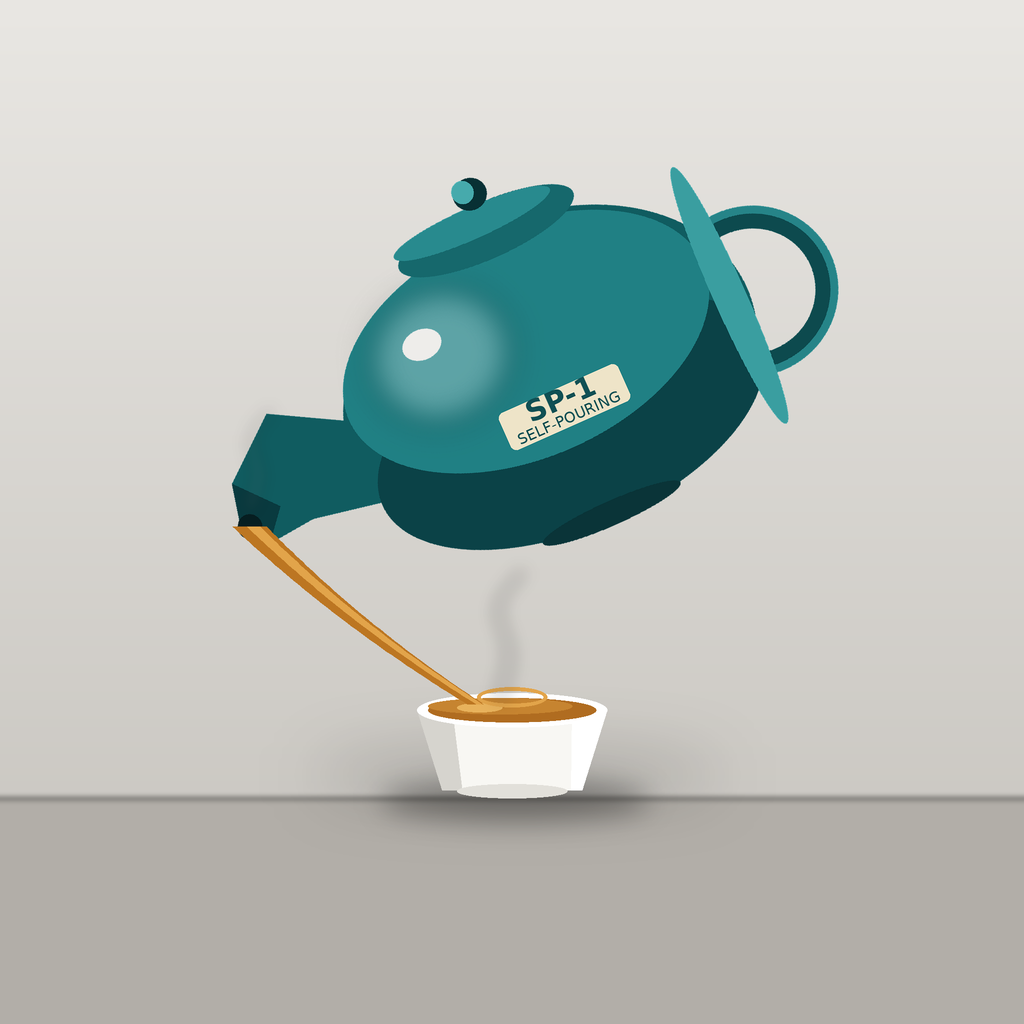
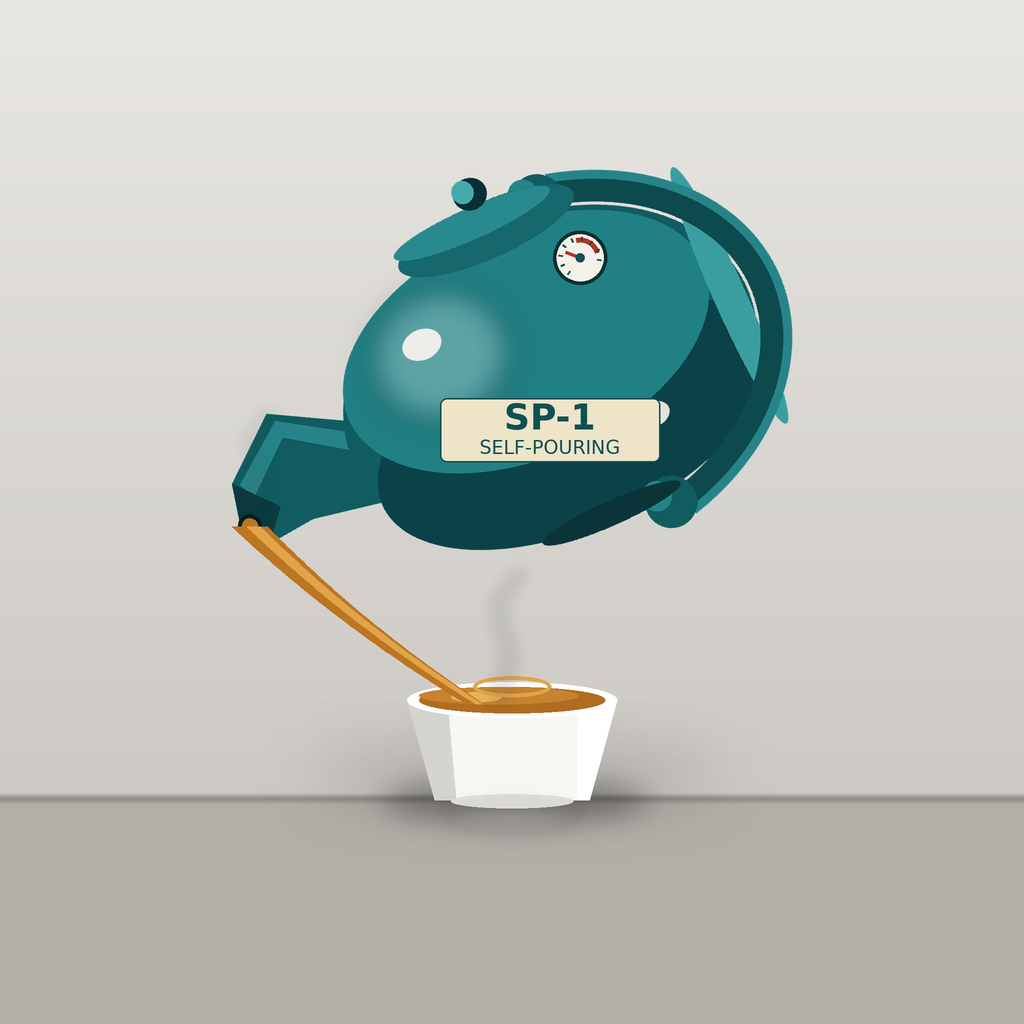
Revise: legible level label, welded handle, gauge dial, spout highlight

Changed region(s): [[0.4062, 0.1562, 0.8438, 0.5312], [0.4062, 0.6562, 0.625, 0.8125], [0.2188, 0.4062, 0.3438, 0.5312]]

diff --git a/main.ts b/main.ts
@@ -1,12 +1,21 @@
-import { copyFileSync, mkdirSync } from "node:fs";
+import { copyFileSync, existsSync, mkdirSync } from "node:fs";
 import { dirname, join } from "node:path";
 import { fileURLToPath } from "node:url";
 
-// The entry image is drawn by compose.py and shipped as entry.png.
-// This program only copies it into the output directory, so both
-// grading runs produce byte-identical output.
-const here = dirname(fileURLToPath(import.meta.url));
-const outDir = process.env.MAKEFUN_OUTPUT_DIR ?? join(here, "out");
+// Entry point: the catalogue photo is rendered by compose.py and shipped
+// as entry.png next to this file. This program only places that image into
+// the grader's output directory, so every grading run emits byte-identical
+// output. It refuses to run if the rendered image is missing, rather than
+// silently producing an empty entry.
+const repoRoot = dirname(fileURLToPath(import.meta.url));
+const sourceImage = join(repoRoot, "entry.png");
+const outputDir = process.env.MAKEFUN_OUTPUT_DIR ?? join(repoRoot, "out");
 
-mkdirSync(outDir, { recursive: true });
-copyFileSync(join(here, "entry.png"), join(outDir, "entry.png"));
+if (!existsSync(sourceImage)) {
+  throw new Error(
+    `entry.png not found in ${repoRoot} -- run "python3 compose.py" first`,
+  );
+}
+
+mkdirSync(outputDir, { recursive: true });
+copyFileSync(sourceImage, join(outputDir, "entry.png"));

diff --git a/compose.py b/compose.py
@@ -7,10 +7,19 @@ saucer, no clutter. One hero product, one accessory (the cup), seamless
 studio background, soft key light from upper left. The joke reads at a
 glance: the teapot pours itself.
 
+Revision notes (this pass): the product label is now drawn level and much
+larger AFTER the pot is rotated, so "SP-1 / SELF-POURING" is legible at a
+glance; the handle is a thick arc welded to the body with mount blobs
+instead of a thin floating ring; the spout carries a top-edge highlight and
+an amber-rimmed mouth; a small AUTO-POUR gauge dial on the body sharpens
+the engineered-absurdity cue; the cup is slightly larger with a soft floor
+reflection.
+
 Rendered at 2x and downscaled for smooth anti-aliasing. Deterministic:
 same bytes on every run. Output: entry.png, 1024x1024, < 1 MiB.
 """
 import math
+import os
 import numpy as np
 from PIL import Image, ImageDraw, ImageFilter, ImageFont
 
@@ -38,17 +47,6 @@ def bezier(p0, p1, p2, n=48):
         y = (1 - t) ** 2 * p0[1] + 2 * (1 - t) * t * p1[1] + t ** 2 * p2[1]
         pts.append((x, y))
     return pts
-
-
-def ribbon(centerline, widths, fill):
-    """A tapered band around a centreline: returns a polygon point list."""
-    left, right = [], []
-    for (x, y), w in zip(centerline, widths):
-        # normal from local direction
-        i = centerline.index((x, y)) if False else None
-        left.append((x - w, y))
-        right.append((x + w, y))
-    return left + right[::-1]
 
 
 def tube_polygon(centerline, w0, w1):
@@ -82,7 +80,6 @@ def steam_wisp(layer, x0, y0, height, amplitude, alpha=110, width=26):
         x = x0 + math.sin(t * math.pi * 2.2) * amplitude * t + t * 30
         y = y0 - t * height
         pts.append((x, y))
-    w = width * (1 - 0.45 * 0.5)
     for i in range(0, len(pts) - 1, 2):
         (x1, y1), (x2, y2) = pts[i], pts[i + 1]
         ww = width * (1 - 0.4 * i / len(pts))
@@ -93,7 +90,8 @@ def steam_wisp(layer, x0, y0, height, amplitude, alpha=110, width=26):
 
 def draw_teapot_layer():
     """Teapot drawn upright on its own layer, then rotated as a whole so the
-    tilt, spout, handle and lid all stay consistent."""
+    tilt, spout, handle and lid all stay consistent. No label here: the
+    label is drawn level on the finished image, after rotation."""
     LW, LH = 1500, 950
     layer = Image.new("RGBA", (LW, LH), (0, 0, 0, 0))
     d = ImageDraw.Draw(layer)
@@ -108,19 +106,21 @@ def draw_teapot_layer():
              (cx - bw - 220, cy + 80), (cx - bw - 120, cy + 70),
              (cx - bw + 40, cy + 100)]
     d.polygon(spout, fill=(16, 92, 96, 255))
+    # spout top-edge highlight: a lighter strip along the upper edge so the
+    # spout reads as a solid cast piece, not a flat slab
+    d.polygon([(cx - bw + 40, cy - 44), (cx - bw - 110, cy - 140),
+               (cx - bw - 226, cy - 52), (cx - bw - 210, cy - 18),
+               (cx - bw - 110, cy - 104), (cx - bw + 30, cy - 8)],
+              fill=(38, 132, 136, 255))
+    # shaded underside of the spout
     d.polygon([(cx - bw - 240, cy - 60), (cx - bw - 260, cy + 30),
                (cx - bw - 220, cy + 80), (cx - bw - 170, cy + 20)],
               fill=(9, 58, 63, 255))
-    # spout tip opening (dark) -- the mouth the tea pours from
+    # spout tip opening (dark) with an amber rim of tea at the mouth
     d.ellipse([cx - bw - 266, cy + 8, cx - bw - 218, cy + 58],
               fill=(6, 30, 33, 255))
-
-    # --- handle FIRST (its inner half hides behind the body): thick C on the
-    # right, drawn as a ring whose left side the body will cover
-    d.ellipse([cx + bw - 170, cy - 160, cx + bw + 180, cy + 180],
-              outline=(13, 74, 78, 255), width=46)
-    d.ellipse([cx + bw - 170, cy - 160, cx + bw + 180, cy + 180],
-              outline=(38, 132, 136, 255), width=16)
+    d.ellipse([cx - bw - 258, cy + 16, cx - bw - 226, cy + 50],
+              fill=(188, 118, 34, 255))
 
     # --- body: glossy deep-teal ceramic, radial-ish shading via stacked ellipses
     # base body
@@ -142,6 +142,43 @@ def draw_teapot_layer():
     layer.alpha_composite(hi)
     # small hard glint
     d.ellipse([cx - 250, cy - 190, cx - 170, cy - 130], fill=(255, 255, 255, 130))
+    # second, smaller glint low on the body for a glazed-ceramic read
+    d.ellipse([cx + 120, cy + 130, cx + 190, cy + 180], fill=(255, 255, 255, 70))
+
+    # --- handle: a thick arc hugging the body's right side, welded on with
+    # two mount blobs where it meets the body -- reads as one cast piece
+    d.arc([cx - 500, cy - 390, cx + 500, cy + 390], start=-72, end=72,
+          fill=(13, 74, 78, 255), width=64)
+    d.arc([cx - 500, cy - 390, cx + 500, cy + 390], start=-72, end=72,
+          fill=(38, 132, 136, 255), width=18)
+    # mount blobs at the arc ends (top and bottom joints)
+    for mx, my in [(cx + 118, cy - 330), (cx + 118, cy + 330)]:
+        d.ellipse([mx - 52, my - 52, mx + 52, my + 52], fill=(16, 92, 96, 255))
+        d.ellipse([mx - 52, my - 52, mx + 8, my + 8], fill=(38, 132, 136, 255))
+
+    # --- AUTO-POUR gauge dial on the upper body: white face, red pour zone,
+    # needle swung into it -- the engineered-absurdity cue
+    gx, gy, gr = cx + 150, cy - 190, 54
+    d.ellipse([gx - gr, gy - gr, gx + gr, gy + gr], fill=(8, 48, 52, 255))
+    d.ellipse([gx - gr + 7, gy - gr + 7, gx + gr - 7, gy + gr - 7],
+              fill=(244, 241, 232, 255))
+    # red pour zone (upper-right quadrant of the dial face)
+    d.arc([gx - gr + 14, gy - gr + 14, gx + gr - 14, gy + gr - 14],
+          start=-78, end=8, fill=(178, 52, 36, 255), width=10)
+    # tick marks
+    for ang in range(-120, 121, 30):
+        a = math.radians(ang - 90)
+        x1 = gx + (gr - 20) * math.cos(a)
+        y1 = gy + (gr - 20) * math.sin(a)
+        x2 = gx + (gr - 12) * math.cos(a)
+        y2 = gy + (gr - 12) * math.sin(a)
+        d.line([(x1, y1), (x2, y2)], fill=(16, 80, 84, 255), width=4)
+    # needle pointing into the red zone (up-right)
+    na = math.radians(-45 - 90)
+    d.line([(gx, gy), (gx + (gr - 24) * math.cos(na),
+                       gy + (gr - 24) * math.sin(na))],
+           fill=(178, 52, 36, 255), width=7)
+    d.ellipse([gx - 9, gy - 9, gx + 9, gy + 9], fill=(16, 80, 84, 255))
 
     # --- foot ring
     d.ellipse([cx - 150, cy + bh - 42, cx + 150, cy + bh + 6], fill=(10, 52, 56, 255))
@@ -152,17 +189,21 @@ def draw_teapot_layer():
     d.ellipse([cx - 34, cy - bh - 108, cx + 34, cy - bh - 44], fill=(8, 48, 52, 255))
     d.ellipse([cx - 34, cy - bh - 108, cx + 10, cy - bh - 62], fill=(70, 170, 172, 255))
 
-    # --- product label: small cream band with model mark (text belongs to
-    # the product, never an explanation of the joke)
-    d.rounded_rectangle([cx - 130, cy + 30, cx + 130, cy + 110],
-                        radius=12, fill=(238, 228, 200, 255))
-    f_big = ImageFont.truetype(DEJAVU_B, 58)
-    f_small = ImageFont.truetype(DEJAVU, 30)
-    d.text((cx, cy + 52), "SP-1", font=f_big, fill=(16, 80, 84, 255), anchor="mm")
-    d.text((cx, cy + 94), "SELF-POURING", font=f_small,
-           fill=(16, 80, 84, 255), anchor="mm")
-
     return layer
+
+
+def draw_label(d, cx, cy):
+    """Product label, drawn LEVEL on the finished image after the pot is
+    rotated, so it reads at a glance: cream band, model mark, function line.
+    Text belongs to the product, never an explanation of the joke."""
+    d.rounded_rectangle([cx - 220, cy - 64, cx + 220, cy + 64],
+                        radius=14, fill=(238, 228, 200, 255),
+                        outline=(16, 80, 84, 255), width=3)
+    f_big = ImageFont.truetype(DEJAVU_B, 72)
+    f_small = ImageFont.truetype(DEJAVU, 38)
+    d.text((cx, cy - 26), "SP-1", font=f_big, fill=(16, 80, 84, 255), anchor="mm")
+    d.text((cx, cy + 34), "SELF-POURING", font=f_small,
+           fill=(16, 80, 84, 255), anchor="mm")
 
 
 def main():
@@ -181,31 +222,34 @@ def main():
     soft_ellipse(img, [620, 1500, 1450, 1600], (0, 0, 0, 46), 60)
 
     # --- teacup (the one accessory): white porcelain, centred under the pot
-    cup_cx, cup_top, cup_bot = 1024, 1420, 1580
+    cup_cx, cup_top, cup_bot = 1024, 1400, 1600
     # cup body: tapered, slightly flared rim
-    d.polygon([(cup_cx - 190, cup_top), (cup_cx + 190, cup_top),
-               (cup_cx + 140, cup_bot), (cup_cx - 140, cup_bot)],
+    d.polygon([(cup_cx - 210, cup_top), (cup_cx + 210, cup_top),
+               (cup_cx + 155, cup_bot), (cup_cx - 155, cup_bot)],
               fill=(248, 247, 243, 255))
     # left shade + right warm light on the cup wall
-    d.polygon([(cup_cx - 190, cup_top), (cup_cx - 120, cup_top),
-               (cup_cx - 100, cup_bot), (cup_cx - 140, cup_bot)],
+    d.polygon([(cup_cx - 210, cup_top), (cup_cx - 130, cup_top),
+               (cup_cx - 112, cup_bot), (cup_cx - 155, cup_bot)],
               fill=(214, 212, 206, 255))
-    d.polygon([(cup_cx + 120, cup_top), (cup_cx + 190, cup_top),
-               (cup_cx + 140, cup_bot), (cup_cx + 118, cup_bot)],
+    d.polygon([(cup_cx + 132, cup_top), (cup_cx + 210, cup_top),
+               (cup_cx + 155, cup_bot), (cup_cx + 130, cup_bot)],
               fill=(255, 255, 255, 255))
     # rim + tea surface
-    d.ellipse([cup_cx - 190, cup_top - 34, cup_cx + 190, cup_top + 34],
+    d.ellipse([cup_cx - 210, cup_top - 36, cup_cx + 210, cup_top + 36],
               fill=(255, 255, 255, 255))
-    d.ellipse([cup_cx - 168, cup_top - 24, cup_cx + 168, cup_top + 24],
+    d.ellipse([cup_cx - 186, cup_top - 26, cup_cx + 186, cup_top + 26],
               fill=(176, 108, 32, 255))
-    d.ellipse([cup_cx - 168, cup_top - 24, cup_cx + 120, cup_top + 8],
+    d.ellipse([cup_cx - 186, cup_top - 26, cup_cx + 132, cup_top + 8],
               fill=(198, 132, 48, 255))
     # tea glint
-    d.ellipse([cup_cx - 110, cup_top - 14, cup_cx - 20, cup_top + 4],
+    d.ellipse([cup_cx - 122, cup_top - 16, cup_cx - 22, cup_top + 4],
               fill=(232, 178, 92, 255))
     # cup foot
-    d.ellipse([cup_cx - 110, cup_bot - 12, cup_cx + 110, cup_bot + 16],
+    d.ellipse([cup_cx - 122, cup_bot - 12, cup_cx + 122, cup_bot + 16],
               fill=(226, 224, 218, 255))
+    # faint floor reflection of the cup
+    soft_ellipse(img, [cup_cx - 130, cup_bot + 6, cup_cx + 130, cup_bot + 60],
+                 (255, 255, 255, 40), 18)
 
     # --- teapot, tilted, hovering above the cup
     pot = draw_teapot_layer()
@@ -213,18 +257,21 @@ def main():
     # spout tip after rotation lands near working (499, 1053)
     img.alpha_composite(pot, (300, 290))
 
+    # --- level product label on the pot body (screen coords, after rotation)
+    draw_label(d, 1100, 860)
+
     # --- tea stream: from the spout tip arcing down into the cup
     p0 = (499, 1053)      # spout tip
     p1 = (700, 1250)      # control: arc out then down
     p2 = (950, 1408)      # into the tea surface
     centre = bezier(p0, p1, p2, 60)
-    stream = tube_polygon(centre, 34, 16)
+    stream = tube_polygon(centre, 36, 18)
     d.polygon(stream, fill=(188, 118, 34, 255))
     # bright core of the stream
-    core = tube_polygon([(x + 8, y) for (x, y) in centre], 13, 6)
+    core = tube_polygon([(x + 8, y) for (x, y) in centre], 14, 7)
     d.polygon(core, fill=(226, 164, 74, 255))
     # splash ring where the stream meets the tea
-    d.ellipse([cup_cx - 70, cup_top - 46, cup_cx + 70, cup_top - 6],
+    d.ellipse([cup_cx - 78, cup_top - 48, cup_cx + 78, cup_top - 6],
               outline=(226, 164, 74, 255), width=8)
 
     # --- steam: two wisps, one from the cup, one from the spout tip
@@ -234,7 +281,7 @@ def main():
     # --- downscale to the 1024x1024 entry
     out = img.convert("RGB").resize((1024, 1024), Image.LANCZOS)
     out.save("entry.png", "PNG", optimize=True)
-    print("entry.png", out.size)
+    print("entry.png", out.size, os.path.getsize("entry.png"), "bytes")
 
 
 if __name__ == "__main__":

diff --git a/README.md b/README.md
@@ -4,12 +4,18 @@
 [![rank](https://make.fun/badge/the-catalogue-photo-of-an-2-20261121-0341/musengbob/the-catalogue-photo-of-an-2-20261121-0341/rank.svg)](https://make.fun/bounty/the-catalogue-photo-of-an-2-20261121-0341/leaderboard?utm_source=github&utm_medium=readme&utm_campaign=the-catalogue-photo-of-an-2-20261121-0341)
 [![reward](https://make.fun/badge/the-catalogue-photo-of-an-2-20261121-0341/musengbob/the-catalogue-photo-of-an-2-20261121-0341/reward.svg)](https://make.fun/bounty/the-catalogue-photo-of-an-2-20261121-0341?utm_source=github&utm_medium=readme&utm_campaign=the-catalogue-photo-of-an-2-20261121-0341)
 
-The Self-Pouring Teapot (SP-1): a catalogue photograph of an impossible gadget. A glossy teal ceramic teapot hovers tilted in mid-air, pouring a smooth amber stream of tea into a white porcelain cup below it — no hand, no help. One hero product, one accessory (the cup), seamless studio background, soft key light. The joke reads at a glance: the teapot pours itself.
+The Self-Pouring Teapot (SP-1): a catalogue photograph of an impossible gadget. A glossy deep-teal ceramic teapot hangs tilted in mid-air and pours a smooth amber stream of tea into a white porcelain cup below it — no hand, no help, no saucer. One hero product, one accessory (the cup), seamless studio background, soft key light from the upper left.
+
+The joke reads at a glance: the teapot pours itself. A level cream label on the pot reads "SP-1 / SELF-POURING", and a small gauge dial on its body has its needle swung into the red pour zone — the absurdity is engineered, not random.
+
+## How the image is made
+
+`compose.py` draws the whole photograph with Pillow at 2x supersampling and downscales it to the 1024x1024 entry image: gradient studio sweep, soft shadows, the teapot (body, spout, arc handle welded to the body, lid, gauge dial), the level product label, the pouring stream with its bright core and splash ring, and two steam wisps. `main.ts` copies the rendered `entry.png` into the grader's output directory, so both grading runs produce byte-identical output.
 
 ## Run it
 
 ```sh
-python3 compose.py   # draws entry.png (1024x1024)
+python3 compose.py   # draws entry.png (1024x1024, < 1 MiB)
 node main.ts         # copies entry.png to ./out/entry.png
 ```
 
